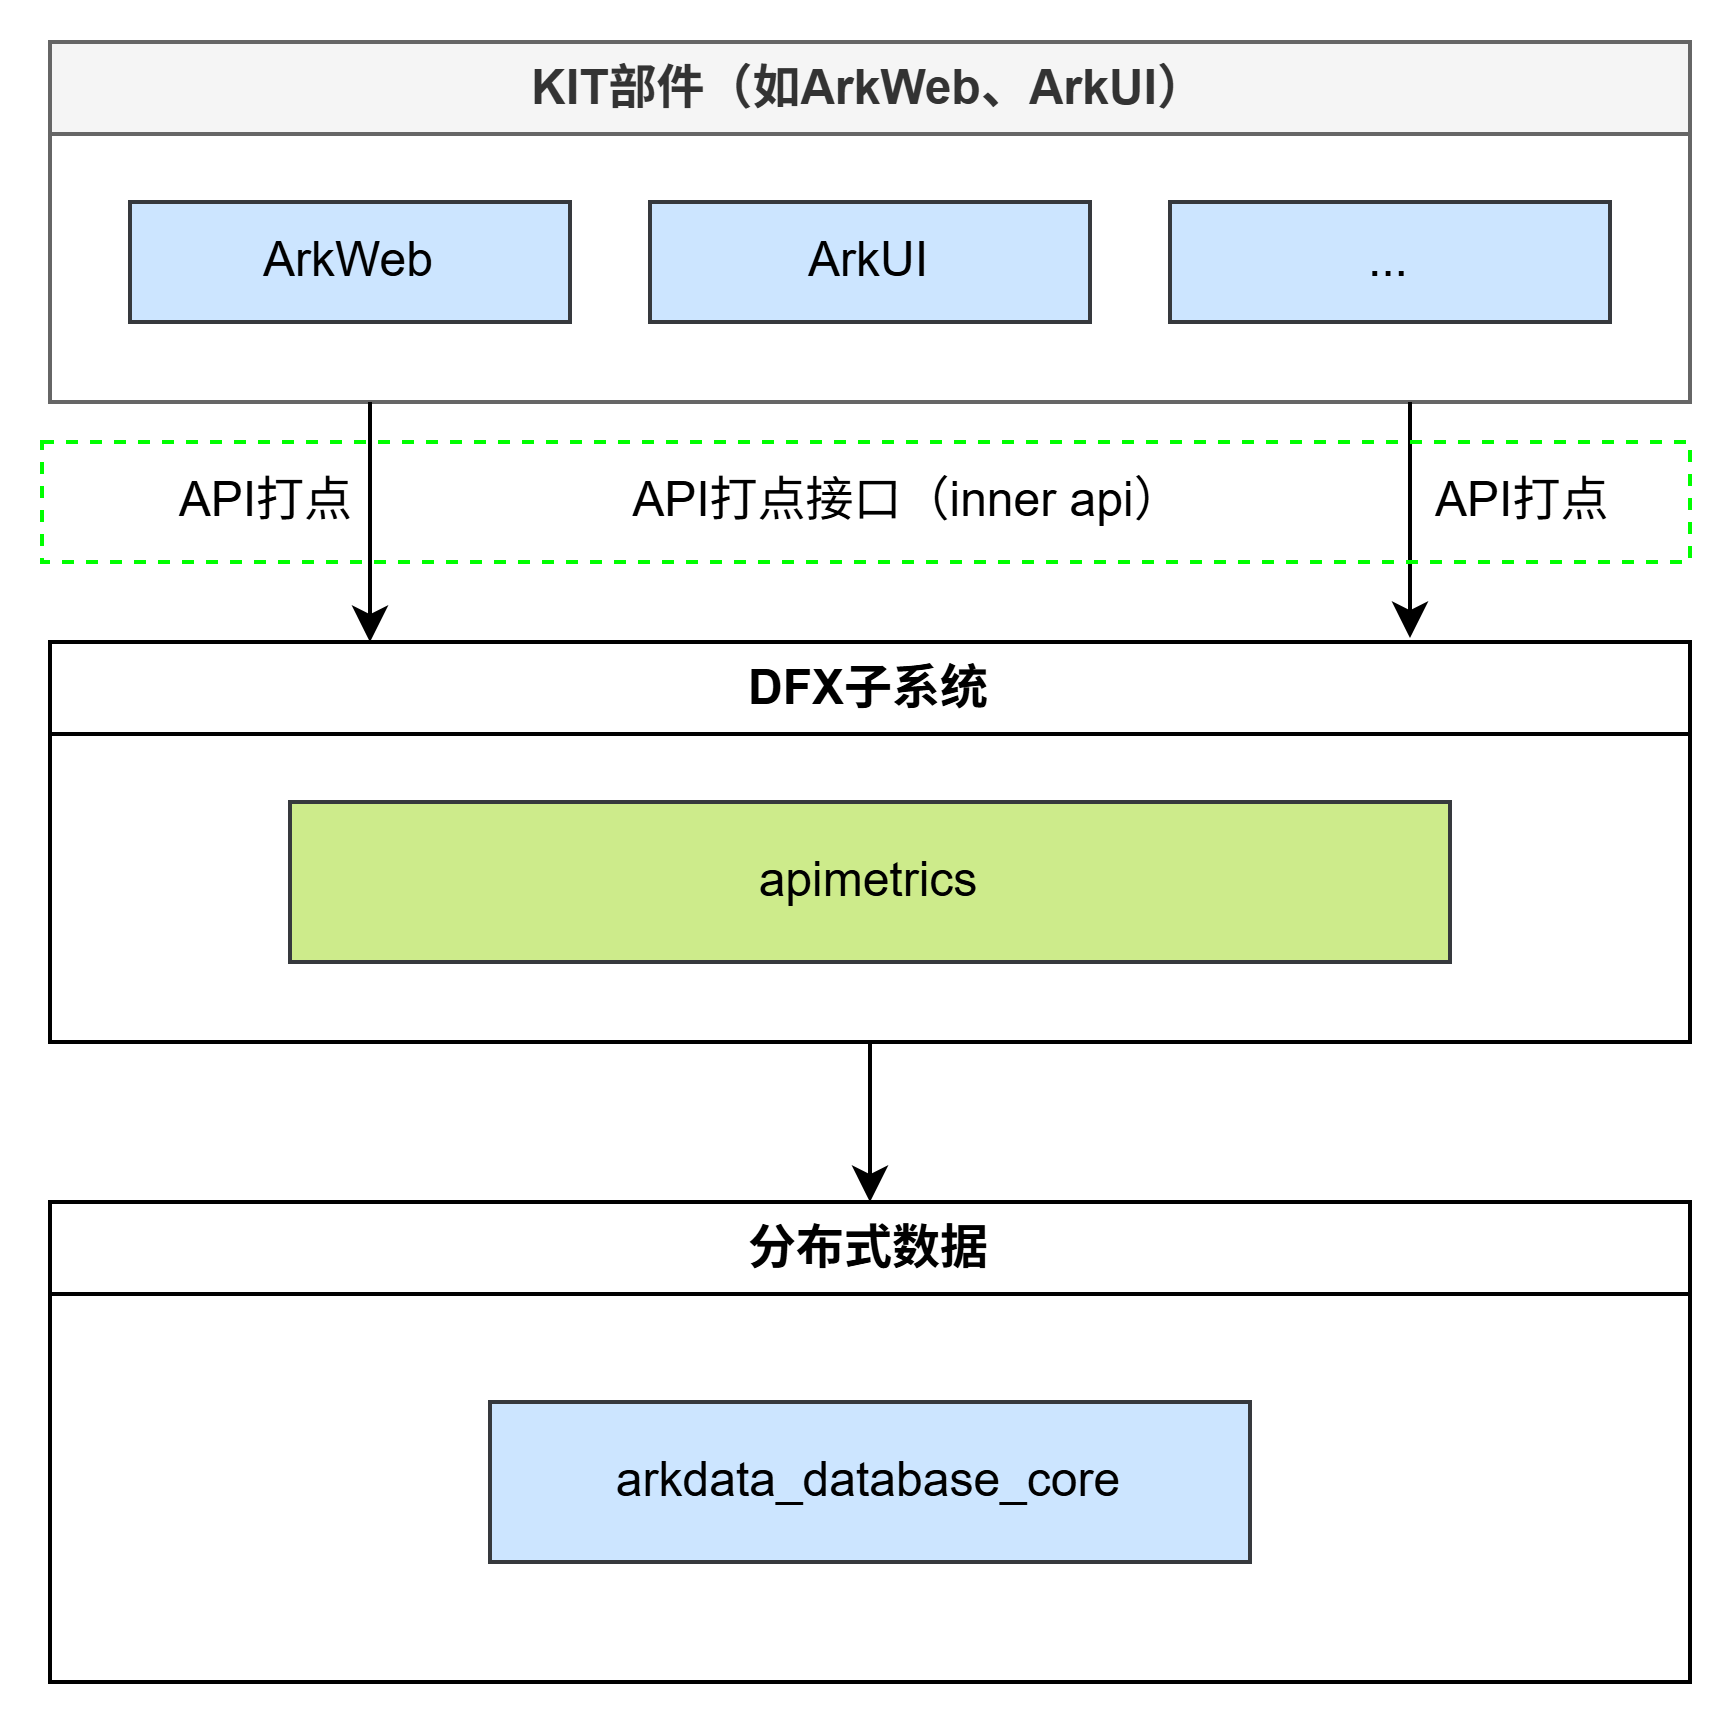
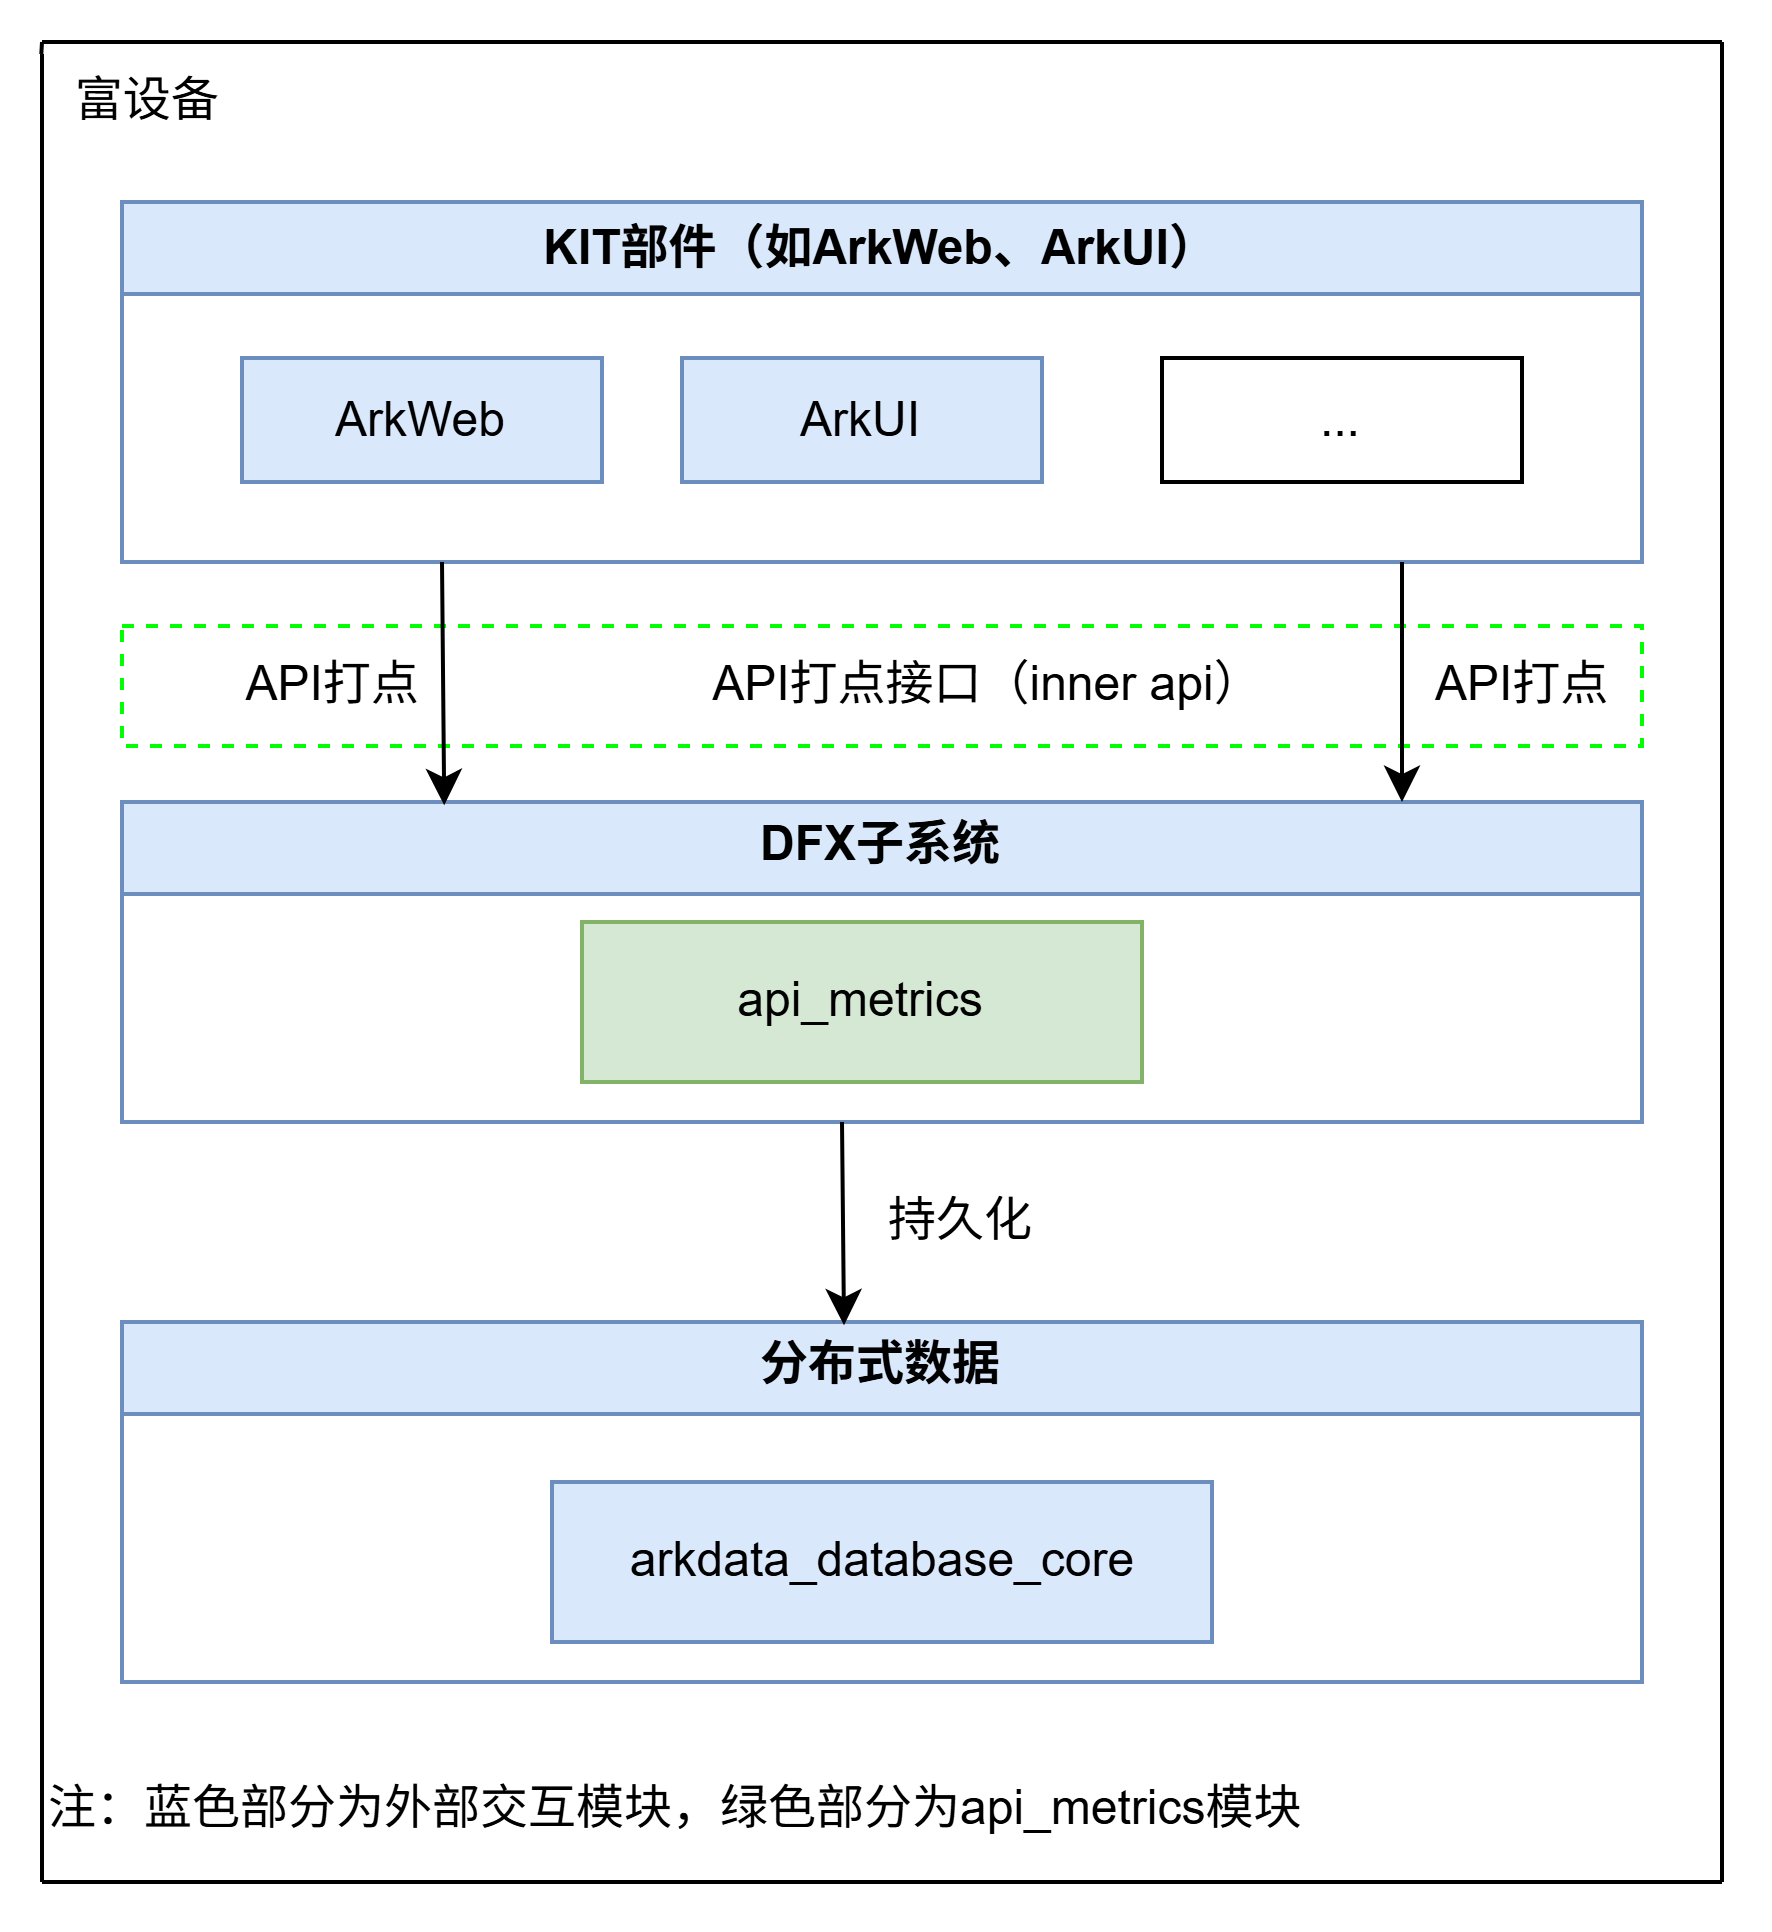
更新readme guide文件

diff --git a/README.md b/README.md
@@ -1,17 +1,28 @@
 # hiviewdfx_api_metrics
  	 
    ## 简介
-   API Metrics SIG仓，提供支持API直方图高性能低功耗打点功能，提供了计数、枚举、时间、百分比、布尔五种直方图，用于度量API运行时调用情况、性能指标。例如业务需要统计某个API的调用次数，可以选择计数直方图；需要统计API不同错误码的出现次数，可以使用枚举直方图。直方图具体使用规范可以参考：[打点规范](https://gitcode.com/openharmony-sig/hiviewdfx_api_metrics/blob/master/Guide.md)
+ API Metrics SIG仓，提供支持API直方图高性能低功耗打点功能，提供了计数、枚举、时间、百分比、布尔五种直方图，用于度量API运行时调用情况、性能指标。直方图介绍：
+
+   
+**计数直方图**  ： 统计某个API的调用次数。
+
+**时间直方图**   ： 时间直方图用来记录函数调用时长（TimeDelta）。
+
+**百分比直方图** ：百分比直方图记录任意比例（等宽桶） 。
+
+**布尔直方图** ：布尔直方图用于记录二元事件的分析，例如某个API是否调用以及调用次数。
+
+**枚举直方图** ：枚举直方图适合用于一组相关状态的联合分析，例如API调用返回错误码很适合作为枚举直方图。枚举直方图也适合用于计数事件。例如想统计API调用返回不同错误码的个数。
 
    ## 系统架构
-   ![alt text](image-1.png)
+   ![alt text](image-5.png)
    - 提供API运行时打点的规范、云侧上传规范、接口说明、示例代码
    - 提供直方图打点接口能力（inner API）
-   - 支持基于典型直方图模型进行数据打点（布尔直方图、枚举直方图、计数直方图、时间统计模型）
+   - 支持基于典型直方图模型进行数据打点
    - 支持直方图统计数据本地持久化
    - 支持设备范围：富设备
 
-   ![alt text](image.png)
+   ![alt text](image-4.png)
    - 打点策略管理：支持API打点项的新增、废弃管理，1阶段支持通过代码仓配置打点策略，2阶段支持云控制
    - 模型层：提供直方图、分桶区间、打点样本三个类型数据结构
    - 快照管理器：收集直方图数据，统计数据的增量，并将其记录在缓存中

diff --git a/Guide.md b/Guide.md
@@ -56,11 +56,11 @@
    ##  测试直方图
    数据通过SA上报到大数据平台，可以根据直方图名称到大数据平台查询上报数据
 
-   # 审核直方图
-   ##  如何成为审核员
+   ## 审核直方图
+   ###  如何成为审核员
    API Committer 默认为各自领域打点项审核人员。
 
-   ## 审核规范
+   ### 审核规范
    **安全隐私**
    打点项数据为匿名统计，不会追踪到用户个人。
 
@@ -68,12 +68,13 @@
    请检查是否存在错误和未使用的桶。
    通常情况下，如果存储桶数量超过 50 个，就应该提出异议。
    对于计时指标，最小值和最大值范围对于所测量的持续时间应当在合理范围内。
+   
    **可持续性**
    添加的指标/存储桶数量：
    虽然没有硬性规定，但任何超过 20 个独立直方图的情况都应该升级处理。
    任何超过 100 个可能桶的直方图都应该进行升级。
 
-   # 打点原则
+   ## 打点原则
 **高价值特性类强制打点**
   
  高价值特性(如闪控球、字体使用等)功能接口需要业务需求 (运维、特性活跃度)打点，用于统计特性活跃度、运维等
@@ -104,7 +105,7 @@
    有固定档位和可配置档位
 
 
-   **问题5，两套打点接口以后的分工是什么？Hisysevent打了是否还需要在新功能中打点？**
+   **两套打点接口以后的分工是什么？Hisysevent打了是否还需要在新功能中打点？**
 
    新架构偏向统计意义的打点。
 
